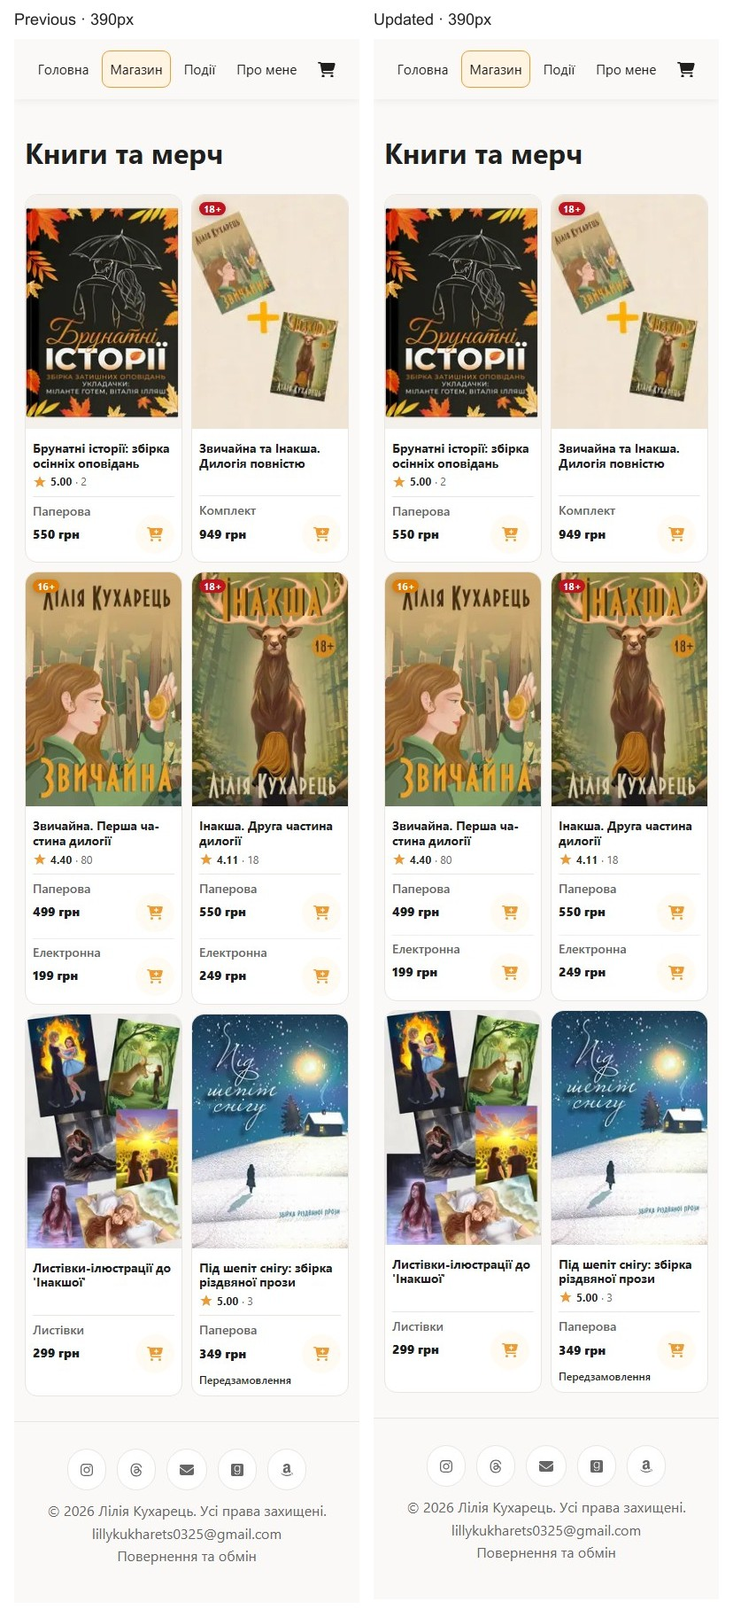
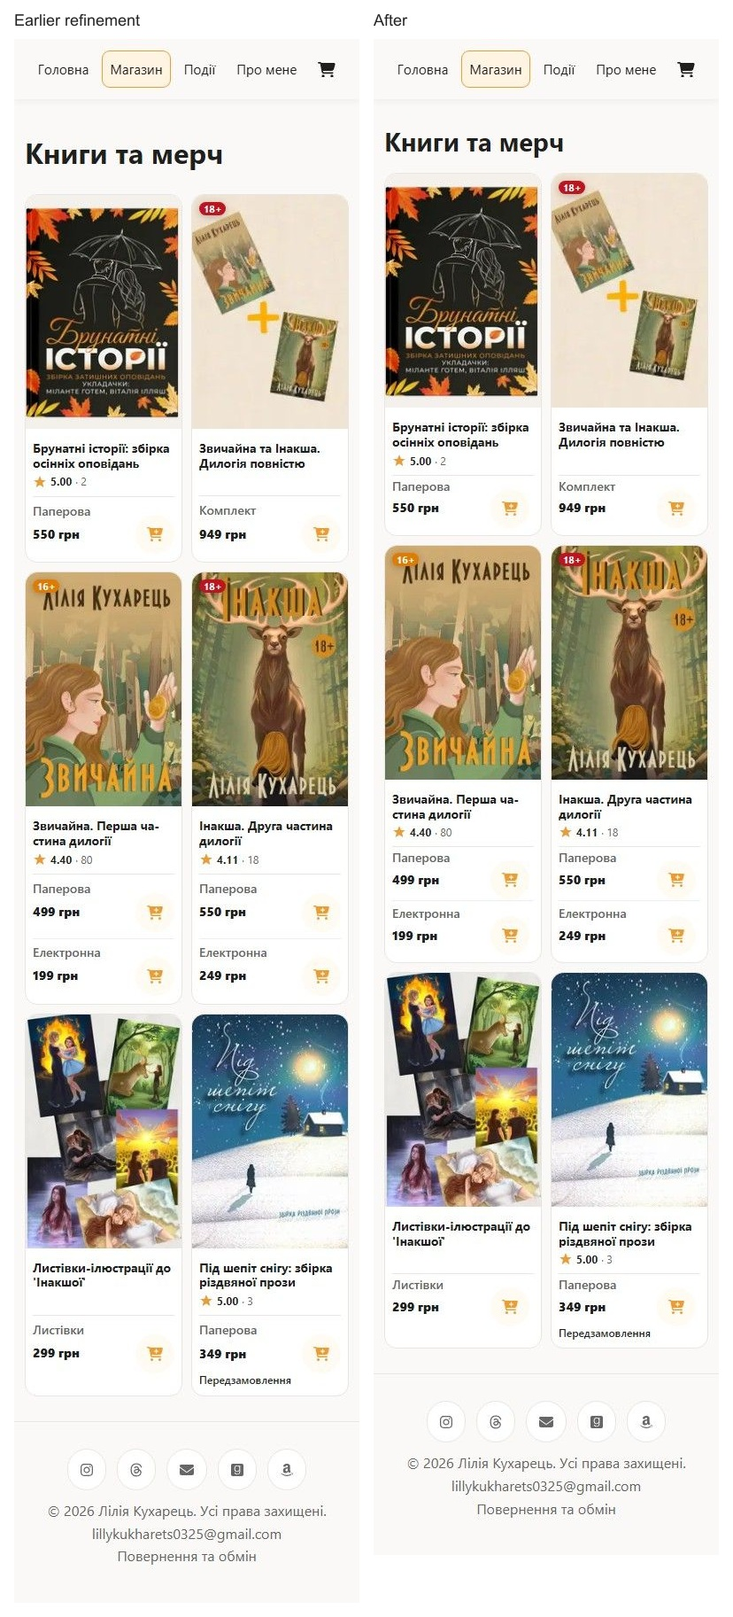
style: compact mobile purchase sections and catalog heading (ZVY-73) [skip netlify]

diff --git a/tests/e2e/catalog-mobile-sizing.spec.ts b/tests/e2e/catalog-mobile-sizing.spec.ts
@@ -47,6 +47,19 @@ for (const width of [320, 360, 390, 520, 521, 640, 768, 1440]) {
       await expect(card(page, merchandise.name)).toBeVisible();
       await page.evaluate(() => document.fonts.ready);
 
+      const pageTitle = page.getByRole("heading", { name: "Книги та мерч", exact: true });
+      const headingStyle = await pageTitle.evaluate(element => ({
+        size: parseFloat(getComputedStyle(element).fontSize),
+        weight: parseFloat(getComputedStyle(element).fontWeight),
+      }));
+      expect(headingStyle.weight).toBeGreaterThanOrEqual(700);
+      if (width <= 520) {
+        expect(headingStyle.size).toBeGreaterThanOrEqual(28);
+        expect(headingStyle.size).toBeLessThanOrEqual(30);
+        expect(headingStyle.size).toBeGreaterThan(await page.getByRole("heading", { level: 2 }).first()
+          .evaluate(element => parseFloat(getComputedStyle(element).fontSize)));
+      } else expect(headingStyle.size).toBe(32);
+
       const cards = page.getByRole("article");
       const first = await cards.nth(0).boundingBox();
       const second = await cards.nth(1).boundingBox();
@@ -199,13 +212,18 @@ for (const width of [360, 390, 1440]) {
         };
       }));
       const directory = path.join(process.cwd(), "docs/storefront-catalog-sizing", phase);
+      const heading = await page.getByRole("heading", { level: 1 }).evaluate(element => {
+        const box = element.getBoundingClientRect();
+        const style = getComputedStyle(element);
+        return { y: box.y, height: box.height, size: style.fontSize, weight: style.fontWeight };
+      });
       await mkdir(directory, { recursive: true });
       const stem = `SCR-02-default-${width}x${width === 1440 ? 900 : 844}`;
       const filename = path.join(directory, `${stem}.jpg`);
       await page.screenshot({ path: filename, type: "jpeg", quality: 90, fullPage: true, animations: "disabled", caret: "hide" });
       await writeFile(path.join(directory, `${stem}.json`), JSON.stringify({
         viewport: { width, height: width === 1440 ? 900 : 844 },
-        pageHeight: await page.evaluate(() => document.documentElement.scrollHeight), cards: metrics,
+        pageHeight: await page.evaluate(() => document.documentElement.scrollHeight), heading, cards: metrics,
       }, null, 2));
       await info.attach(`catalog ${phase}`, { path: filename, contentType: "image/jpeg" });
       if (phase === "after") {
@@ -214,7 +232,13 @@ for (const width of [360, 390, 1440]) {
         else {
           expect(metrics.map(({ title, x, width, titleSize, titleLineHeight, titleClamp }) => ({ title, x, width, titleSize, titleLineHeight, titleClamp })))
             .toEqual(before.cards.map(({ title, x, width, titleSize, titleLineHeight, titleClamp }: typeof metrics[number]) => ({ title, x, width, titleSize, titleLineHeight, titleClamp })));
-          expect(metrics[2].y).toBeGreaterThan(before.cards[2].y);
+          const previous = JSON.parse(await readFile(path.join(directory, "..", "density-before", `${stem}.json`), "utf8"));
+          expect(metrics[0].y).toBeLessThan(previous.cards[0].y - 20);
+          for (let index = 0; index < metrics.length; index++) {
+            const reduction = 1 - metrics[index].formatsHeight / previous.cards[index].formatsHeight;
+            expect(reduction).toBeGreaterThanOrEqual(0.08);
+            expect(reduction).toBeLessThanOrEqual(0.12);
+          }
           const initial = JSON.parse(await readFile(path.join(directory, "..", "initial-after", `${stem}.json`), "utf8"));
           expect(metrics.map(({ title, x, width, titleSize, titleLineHeight, titleClamp }) => ({ title, x, width, titleSize, titleLineHeight, titleClamp })))
             .toEqual(initial.cards.map(({ title, x, width, titleSize, titleLineHeight, titleClamp }: typeof metrics[number]) => ({ title, x, width, titleSize, titleLineHeight, titleClamp })));

diff --git a/src/components/molecules/BookCard.module.css b/src/components/molecules/BookCard.module.css
@@ -185,16 +185,16 @@
   .ageBadge { font-size: 11px; padding: 2px 5px; }
   .formats {
     margin-top: 8px;
-    padding-top: 7px;
+    padding-top: 4px;
   }
   .formatRow {
     grid-template-columns: minmax(0, 1fr) 44px;
     gap: 0 5px;
-    padding: 1px 5px 1px 0;
+    padding: 0 5px 0 0;
   }
   .formatRow + .formatRow {
-    margin-top: 2px;
-    padding-top: 7px;
+    margin-top: 1px;
+    padding-top: 6px;
   }
   .formatInfo,
   .formatText {
@@ -212,12 +212,12 @@
   .formatName {
     grid-column: 1;
     /* Use spare space beside the button without moving its price alignment. */
-    margin-bottom: -4px;
+    margin-bottom: -6px;
   }
   .formatPrice {
     grid-column: 1;
     grid-row: 2;
-    padding: 8px 0;
+    padding: 10px 0;
   }
   .formatInfo > :not(.formatText) {
     grid-column: 1 / -1;

diff --git a/src/app/books/page.tsx b/src/app/books/page.tsx
@@ -1,5 +1,6 @@
 import type { Metadata } from "next";
 import BooksGrid from "./BooksGrid";
+import styles from "./books.module.css";
 import { absoluteUrl } from "@/lib/site.server";
 
 const BOOKS_TITLE = "Книги Лілії Кухарець";
@@ -29,7 +30,7 @@ export const metadata: Metadata = {
 export default async function BooksPage() {
   return (
     <section>
-      <h1>Книги та мерч</h1>
+      <h1 className={styles.title}>Книги та мерч</h1>
       <BooksGrid />
     </section>
   );

diff --git a/src/app/books/books.module.css b/src/app/books/books.module.css
@@ -7,9 +7,14 @@
 
 /* Force a real grid on small phones: 2 columns */
 @media (max-width: 520px) {
+  .title {
+    font-size: 29px;
+    margin: 11px 0 0;
+  }
   .grid {
     grid-template-columns: repeat(2, minmax(0, 1fr));
     gap: 10px;
+    margin-top: 13px;
   }
 }
 

diff --git a/docs/storefront-catalog-sizing/REPORT.md b/docs/storefront-catalog-sizing/REPORT.md
@@ -1,74 +1,88 @@
-# ZVY-73: mobile catalog text and quick-add sizing
+# ZVY-73: mobile catalog readability and density
 
 Verified on 2026-10-07 (Europe/Kyiv). [ZVY-73](https://linear.app/zvychajna/issue/ZVY-73), approved scope [F-DISC-004](../storefront-review/DECISIONS.md#f-disc-004-mobile-readability-and-targets). Final journey handoff: [ZVY-58](https://linear.app/zvychajna/issue/ZVY-58).
 
 ## Implemented result
 
-Within the existing `max-width: 520px` breakpoint, format labels remain above their bold prices, with each price centered beside a circular quick-add button. Format and price text is 14 CSS px (previously 11.2px); buttons retain their 44 × 44 CSS px tap target (previously 26 × 26). Long format labels and amounts can wrap instead of clipping. Preorder disclosure remains below the price/action row.
+Within the existing `max-width: 520px` breakpoint, format labels remain on separate lines above their bold prices. Format/price text is 14 CSS px (originally 11.2px), with one 44 × 44 CSS px circular quick-add target per edition (originally 26 × 26). The price stays left, centered beside the button on the right. Long format labels and amounts wrap rather than clip. Preorder disclosure remains below the price/action row.
 
-After reviewing the initial After design, the owner requested tighter spacing between each format and price, slightly more separation between editions, less unused height for single-option cards, prominent bold prices, and a less dominant button background. This explicit refinement preserves the stacked format/price arrangement rather than restoring the original inline row. The label occupies the price column and uses spare space beside the button; price padding protects wrapped text. The pale button background mixes 45% of the original accent surface with the white card surface; its circle and tap target remain 44px.
+The owner explicitly requested several refinements after reviewing the initial After design: tighter format/price grouping, more separation between editions, compact single-format cards, a subtler button background, a 4–6px button inset and less space before subsequent separators. The current version retains the 5px right inset and mixes 45% of the original pale accent background with the card surface. Prices remain weight 800, labels weight 600; targets stay 44px.
 
-The owner then requested moving the button inward by 4–6px and removing approximately 4px between the first button and the next separator. Each mobile purchase row now reserves 5px at its right edge, moving the button inward without shifting the price's left edge or using a transform that could overlap text. The margin before subsequent separators decreases from 6px to 2px; padding below the separator remains 7px. These two adjustments remain within the existing mobile breakpoint.
+The latest owner request adds an approximately 8–12% purchase-section height reduction and a smaller, tighter mobile page heading. Section top padding is now 4px; purchase rows have no additional vertical padding; subsequent rows retain a separator, 1px margin above and 6px padding below it. Labels use spare space alongside the target; price padding protects wrapped glyphs. Between-format spacing remains larger than label-to-price spacing. This preserves the stacked hierarchy without restoring the original inline design.
 
-The two-column phone grid, covers, title arrangement, two-line title clamp, ratings, separator appearance, price/label colors, focus treatment, and edition-selection behavior are preserved. All application changes are in `src/components/molecules/BookCard.module.css`. The existing non-semantic format wrappers use `display: contents` on mobile so their children participate in the row grid. No component markup, cart rules, API contracts or backend code changed.
+The page heading retains the exact text “Книги та мерч” and weight 700. Its mobile size is 29px, compared with 32px previously; its top margin is 11px and its following grid gap is 13px. These values reduce the rendered space above the heading by approximately 9px and below it by approximately 8px. The first product row starts 23.7px earlier at 390px. The heading remains clearly larger than 13.76px product titles. This page-heading change is explicitly authorized by the latest owner request; it does not change product-title layout.
 
-Created files: `tests/e2e/catalog-mobile-sizing.spec.ts`, this report, full-page screenshots and measurement JSONs under `before`, `initial-after`, `previous-refinement` and `after`, original-to-current comparisons `comparison-360.jpg`/`comparison-390.jpg`, initial-After-to-current comparisons `refinement-360.jpg`/`refinement-390.jpg`, previous-refinement-to-current comparisons `adjustment-360.jpg`/`adjustment-390.jpg`, and purchase-area comparisons `refinement-details-390.jpg`/`adjustment-details-390.jpg`. Initial comparisons are retained under `initial-after`. Comparisons use actual screenshots without rescaling.
+The two-column phone grid, covers, product-title arrangement and two-line clamp, ratings, separator appearance, focus treatment, and edition-selection behavior are preserved. Application changes are limited to `src/components/molecules/BookCard.module.css`, `src/app/books/books.module.css`, and the heading class/import in `src/app/books/page.tsx`. Non-semantic format wrappers use `display: contents` on mobile. No cart rules, data providers, API contracts or backend code changed.
 
-## Environment and evidence provenance
+## Verification environment and evidence
 
 Branch `codex/zvy-73-mobile-catalog-sizing`, based on updated frontend `main` at `34a608fa2dc8db4761ce13290bd09016621844fe`. Next.js 16.3.4 production build, Node.js 24.11.1, Playwright 1.63.0 and bundled Chromium. Local application: `http://127.0.0.1:3100`; deterministic API double: `http://127.0.0.1:4100`. Phone contexts emulate touch. Tested route: `/books`.
 
-Matching captures use all six products from the approved historical [catalog snapshot](../storefront-baseline/catalog-snapshot.json), supplied through a browser route double after the normal provider refresh. Image URLs are normalized to repository assets. The local build uses the standard deterministic test API; browser requests to non-local hosts are blocked. All phases use the same snapshot, viewport, fonts and image readiness checks, empty cart and scroll position. Before captures use the original base stylesheet. The initial After at `9a71d97879acaa7cddd6ac6e963f6bda4ec0d510` is preserved under `initial-after`; the first refinement at `66736743005fefdaa997d38514782813e509e42b` is preserved under `previous-refinement`; current `after` captures include the latest button inset and separator spacing. This is controlled local evidence, not a fresh production inspection.
+All captures use the same six products from the approved historical [catalog snapshot](../storefront-baseline/catalog-snapshot.json), supplied through a browser route double after provider refresh. Image URLs resolve to repository assets. Non-local browser requests are blocked; fonts and images finish loading before capture. Cart state and scroll position match. These are controlled local comparisons, not fresh production evidence.
 
-| Viewport | Before | After | Comparison |
+Preserved phases:
+
+- `before`: original base design.
+- `initial-after`: first readability improvement, revision `9a71d97879acaa7cddd6ac6e963f6bda4ec0d510`.
+- `previous-refinement`: first compact refinement, revision `66736743005fefdaa997d38514782813e509e42b`.
+- `density-before`: design immediately preceding the latest density/heading request, revision `39262caf7d12a2792224ca70841c33c8f1eb0bfc`.
+- `after`: current result, with heading and purchase-section density refinements.
+
+| Viewport | Current Before | Current After | Latest comparison |
 | --- | --- | --- | --- |
-| 390 × 844 | [Screenshot](before/SCR-02-default-390x844.jpg) / [Measurements](before/SCR-02-default-390x844.json) | [Screenshot](after/SCR-02-default-390x844.jpg) / [Measurements](after/SCR-02-default-390x844.json) | [Side by side](comparison-390.jpg) |
-| 360 × 844 | [Screenshot](before/SCR-02-default-360x844.jpg) / [Measurements](before/SCR-02-default-360x844.json) | [Screenshot](after/SCR-02-default-360x844.jpg) / [Measurements](after/SCR-02-default-360x844.json) | [Side by side](comparison-360.jpg) |
+| 390 × 844 | [Screenshot](density-before/SCR-02-default-390x844.jpg) / [Measurements](density-before/SCR-02-default-390x844.json) | [Screenshot](after/SCR-02-default-390x844.jpg) / [Measurements](after/SCR-02-default-390x844.json) | [First viewport](density-390.jpg), [purchase details](density-details-390.jpg) |
+| 360 × 844 | [Screenshot](density-before/SCR-02-default-360x844.jpg) / [Measurements](density-before/SCR-02-default-360x844.json) | [Screenshot](after/SCR-02-default-360x844.jpg) / [Measurements](after/SCR-02-default-360x844.json) | [First viewport](density-360.jpg) |
 | 1440 × 900 | [Screenshot](before/SCR-02-default-1440x900.jpg) / [Measurements](before/SCR-02-default-1440x900.json) | [Screenshot](after/SCR-02-default-1440x900.jpg) / [Measurements](after/SCR-02-default-1440x900.json) | Original JPEG bytes are identical |
 
-## Browsing tradeoff
+Original-to-current full-page comparisons: [390px](comparison-390.jpg), [360px](comparison-360.jpg). Initial-After-to-current: [390px](refinement-390.jpg), [360px](refinement-360.jpg), [purchase details](refinement-details-390.jpg). Earlier-refinement-to-current: [390px](adjustment-390.jpg), [360px](adjustment-360.jpg), [purchase details](adjustment-details-390.jpg). Each comparison retains source pixels without scaling.
 
-In this six-product snapshot, the current one-edition format block measures approximately 66.8px, compared with 75.8px in the initial After and 36px in the original Before. A two-edition block measures approximately 134.6px, compared with 138.6px in the previous refinement, 151.6px in the initial After and 72px in the original Before. The preorder block measures approximately 82.4px, compared with 96.4px and 43px. The current design removes 9px from a one-option block, 17px from a two-option block and 14px from the preorder block compared with the initial After. Grid widths and title size, line height and clamp match the earlier versions.
+## Density and browsing tradeoff
 
-| Width | Original Before | Initial After | Previous refinement | Current After | Change from initial After |
-| --- | ---: | ---: | ---: | ---: | ---: |
-| 360px | 1561px | 1733px | 1697px | 1693px | −40px |
-| 390px | 1628px | 1801px | 1765px | 1761px | −40px |
-| 1440px | 1553px | 1553px | 1553px | 1553px | 0px |
+| Purchase section at 390px | Current Before | Current After | Reduction |
+| --- | ---: | ---: | ---: |
+| One format | 66.8px | 59.8px | 10.5% |
+| Two formats | 134.6px | 122.6px | 8.9% |
+| One preorder format | 82.4px | 75.4px | 8.5% |
 
-Initial After versus current: [390px full page](refinement-390.jpg), [360px full page](refinement-360.jpg), [390px purchase details](refinement-details-390.jpg). Latest adjustment versus previous refinement: [390px full page](adjustment-390.jpg), [360px full page](adjustment-360.jpg), [390px purchase details](adjustment-details-390.jpg). At 390px the current page is 40px shorter than the initial After and remains 133px (8.2%) taller than the original Before. At 360px it remains 132px (8.5%) taller. The latest adjustment removes another 4px from the two-edition product row; covers and title/rating blocks are unchanged.
+The same section reductions hold at 360px. Button dimensions remain 44 × 44px. Horizontal card positions, widths, and product-title sizing, line height and clamp match the original and all intermediate versions.
 
-Larger text and targets require more scrolling to browse the same products. The initial phone viewport exposes less of the next product row. These measurements describe this snapshot only; no conversion improvement or real-phone comfort improvement is assumed.
+| Width | Original Before | Initial After | Current Before | Current After |
+| --- | ---: | ---: | ---: | ---: |
+| 360px | 1561px | 1733px | 1693px | 1644px |
+| 390px | 1628px | 1801px | 1761px | 1711px |
+| 1440px | 1553px | 1553px | 1553px | 1553px |
+
+At 390px the page is 50px shorter than Current Before and 90px shorter than Initial After. It remains 83px (5.1%) taller than Original Before, reflecting the larger text and targets. At 360px it remains 83px (5.3%) taller than Original Before. The first viewport exposes more of the second row than Current Before. These measurements apply to this snapshot; no conversion improvement or real-phone comfort improvement is assumed.
 
 ## Verification
 
-- `npm run lint`: passed.
-- `npm run typecheck`: passed.
+- `npm run lint` and `npm run typecheck`: passed.
 - `npm run test:fixtures`: four deterministic fixture contracts passed.
-- Production build through the standard Playwright `tests/support/test-app.mjs`: passed for both capture phases.
-- Before capture: three matching snapshot captures passed.
-- `ZVY73_EVIDENCE_PHASE=after npm run test:e2e -- catalog-mobile-sizing books-grid-rating preorder-labels keyboard-navigation accessibility`: 45 passed.
-- Layout assertions cover 320, 360, 390, 520, 521, 640, 768 and 1440px. Mobile tests check two columns, full label/price containment, 14px text, 44px targets, stacked format/price text without overlap, price prominence, centered price/button alignment, tighter within-option spacing than between-option spacing, no overlapping buttons and no page overflow. Edge data includes a long merchandise label and 12345.67 UAH amount. Desktop keeps the original long-label handling; it is outside this mobile change. A 320px wrapped-label/price overlap found during refinement was corrected and the strengthened test now passes.
-- Interaction tests at 360/390/1440px assert intended item IDs, formats and quantities for touch/click, Enter and Space. They exercise discounted paper preorder (449 UAH), available ebook (199 UAH), total 648 UAH, disabled unavailable editions, reopening an existing cart item without duplicating it, and Escape/focus restoration. Invoice request count stays zero.
-- Existing ratings, preorder, keyboard and axe checks pass with the repository's established color-contrast exception. No new accessibility rule exceptions were introduced.
-- Spacing tests compare the rendered within-option glyph gap with the text size and between-option gap, allowing system-font metrics to differ across Windows and Linux. They retain independent non-overlap, containment, price weight, alignment and tap-target assertions.
-- Final portable-assertion check: lint and typecheck passed; `npm run test:e2e -- catalog-mobile-sizing` passed 11 tests, with three opt-in evidence captures skipped. The production build passed. No application styling changed in this test adjustment.
-- Desktop card measurements and full-page height match before; full-page JPEG bytes are identical. Phone horizontal positions, widths and title styling match before.
-- `git diff --check`: passed. The application diff contains only rules inside the existing mobile media query. Self-review found no changes to selection, pricing, navigation, title layout or desktop styling.
-- Required GitHub `verify` is checked on the PR's current head, with its actual result recorded in the PR handoff. Local checks alone do not satisfy that gate.
+- Production build through the standard `tests/support/test-app.mjs`: passed.
+- `ZVY73_EVIDENCE_PHASE=after npm run test:e2e -- catalog-mobile-sizing books-grid-rating preorder-labels keyboard-navigation accessibility`: 45 passed, including three matching evidence captures.
+- Layout coverage: 320, 360, 390, 520, 521, 640, 768 and 1440px. Assertions cover two mobile columns, 14px format/price text, 44px targets, full glyph containment, stacked non-overlapping label/price, stronger price weight, centered price/button alignment, larger between-edition spacing, non-overlapping buttons, and no page overflow. Edge data includes a long merchandise label and 12345.67 UAH price. Glyph-gap assertions allow Windows/Linux system-font differences.
+- Heading checks assert 28–30px sizing and bold weight on mobile, prominence over product titles, and unchanged 32px desktop sizing. Matching mobile captures verify 8–12% section reduction and an earlier first row.
+- Interaction tests at 360/390/1440px assert intended item IDs, formats and quantities for touch/click, Enter and Space. They cover discounted paper preorder (449 UAH), available ebook (199 UAH), total 648 UAH, disabled unavailable editions, reopening an existing item without duplicating it, and Escape/focus restoration. Invoice request count remains zero.
+- Existing ratings, preorder, keyboard and axe checks pass with the established color-contrast exception. No new accessibility exceptions.
+- Desktop card metrics and page height match the original; full-page JPEG bytes are identical. Mobile cover/grid/product-title structure is unchanged.
+- Self-review: application styles remain inside the existing mobile breakpoint; heading markup adds only a scoped class. No changes to pricing, selection, navigation or desktop styling. `git diff --check` passed.
+- Required GitHub `verify` must be green on the current PR head; its retrieved result is recorded in the PR handoff. Prior-revision success is not evidence for a new head.
 
-To repeat after captures, set `ZVY73_EVIDENCE_PHASE=after` and run `npm run test:e2e -- catalog-mobile-sizing --grep "records matching"`. Before captures require restoring the base stylesheet as well as setting the phase to `before`; the variable alone does not restore the old design. Capture tests skip in ordinary CI because repository evidence writing is opt-in.
+Repeat After evidence by setting `ZVY73_EVIDENCE_PHASE=after` and running `npm run test:e2e -- catalog-mobile-sizing --grep "records matching"`. Original Before captures require restoring the base stylesheet and heading markup, not only changing the phase variable. Capture tests skip in ordinary CI because writing repository evidence is opt-in.
 
 ## Acceptance and handoff
 
 | Acceptance criterion | Result |
 | --- | --- |
-| Two columns, current titles, stacked format/price, minimum sizing, owner-requested spacing and background refinement | Implemented; 320/360/390/520px layout tests and matching captures pass; 390px catalog is 40px shorter than initial After, with buttons inset 5px and 4px less space before subsequent separators |
-| Full format/amount/currency, intended touch/keyboard edition, non-overlapping targets | Implemented and tested with ordinary, long-label, discounted, preorder, digital, unavailable and in-cart states |
-| Existing mobile breakpoint only; desktop and intermediate/reflow checks | Implemented; 521/640/768/1440px checks pass and desktop screenshot is identical |
-| Baseline comparison, increased-scroll tradeoff, final owner review | Evidence and tradeoff recorded; implemented result presented for owner review, acceptance remains pending |
-| Green CI, code review and availability in the recorded final verification environment | CI result is recorded on the PR; code review and final verification-environment handoff remain required |
+| Two columns, unchanged product-title layout, stacked format/price, 14px text and 44px targets | Implemented; layout and interaction checks pass |
+| Full format/amount/currency, intended touch/keyboard edition, no overlapping targets | Implemented and tested across long-label, discounted, preorder, digital, unavailable and in-cart states |
+| Latest owner request: 8–12% purchase-section reduction; compact single-format cards; bold 28–30px page heading with tighter margins | Implemented; measured 8.5–10.5% reduction, 29px heading and first row 23.7px earlier at 390px |
+| Existing mobile breakpoint only; desktop preservation and intermediate/reflow checks | Implemented; 521/640/768/1440px checks pass, desktop JPEG identical |
+| Baseline comparison, increased-scroll tradeoff, final owner acceptance | Evidence and tradeoff recorded; final owner acceptance remains pending |
+| Green CI, code review and reviewed environment for final journey verification | CI status recorded on the PR; code review and ZVY-58 verification handoff remain required |
 
-Netlify is explicitly skipped: commit subjects and PR title carry `[skip netlify]`, and the eventual merge/squash subject must preserve it. No Netlify deploy or provider-preview result is claimed. The local production environment above is the recorded implementation-verification environment; final ZVY-58 journey verification must record its own reviewed revision and environment.
+Netlify is explicitly skipped: commit subjects and the PR title carry `[skip netlify]`; the eventual merge/squash subject must preserve it. No deployment or provider-preview result is claimed. The local production environment above is the implementation-verification environment. ZVY-58 must record its reviewed revision/environment before final journey sign-off.
 
-The owner must accept the implemented mobile result before ZVY-58 sign-off and may reject it. Real-phone/browser behavior, screen-reader speech, 200% enlargement and final journey/provider/payment checks have no new evidence here; emulation is not a real-phone pass. Deferred contrast/cover-title work and rejected extra labels, title-layout and shared focus-outline redesign remain outside scope. Do not mark this issue fully accepted based only on automated checks or provisional approval to implement.
+The owner must accept this result and may reject it. Real-phone/browser behavior, screen-reader speech, 200% enlargement and final journey/provider/payment checks have no new evidence here; emulation is not a real-phone pass. Deferred contrast/cover-title work and rejected extra labels/shared-outline redesign remain outside scope. Do not mark the issue fully accepted from implementation approval or automated checks alone.
+
+The complete changed-file manifest, including all screenshots, measurement files, application files and tests, is linked in [PR #42](https://github.com/rutakamekiar-org/lilys-books/pull/42).
